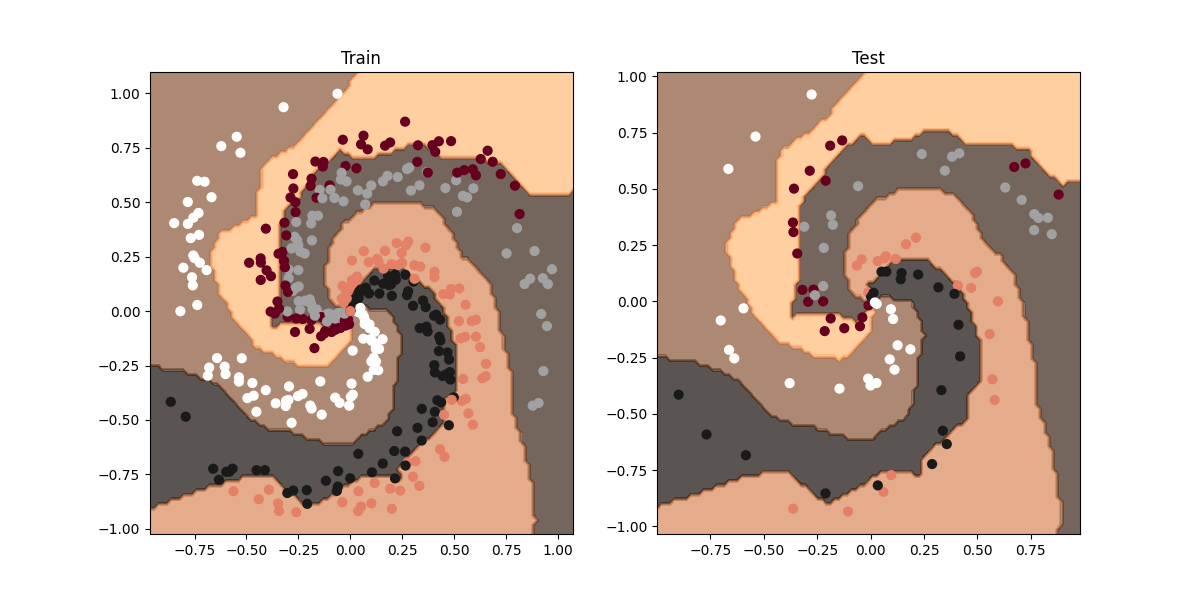
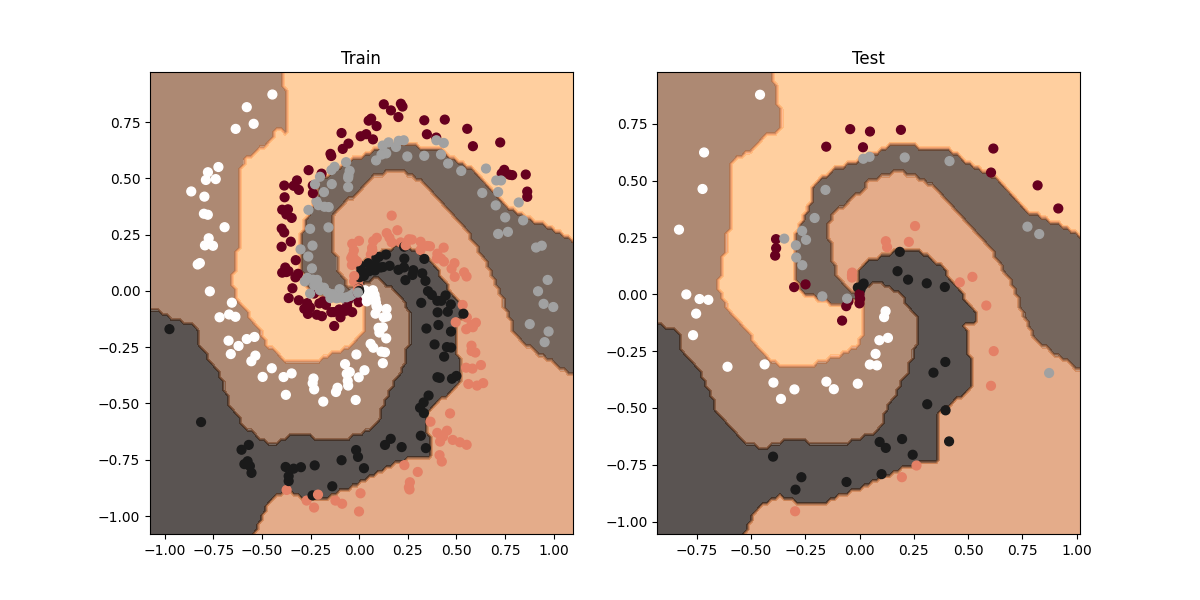
fixd multi-classification model

diff --git a/Classification/swirl_classification.py b/Classification/swirl_classification.py
@@ -56,9 +56,9 @@ X_train, X_test, y_train, y_test = (
 
 model = nn.Sequential(
     nn.Linear(2, 50),
-    # nn.ReLU(),
+    nn.ReLU(),
     nn.Linear(50, 50),
-    # nn.ReLU(),
+    nn.ReLU(),
     nn.Linear(50, NUM_ClASSES),
 )
 loss_function = nn.CrossEntropyLoss()
